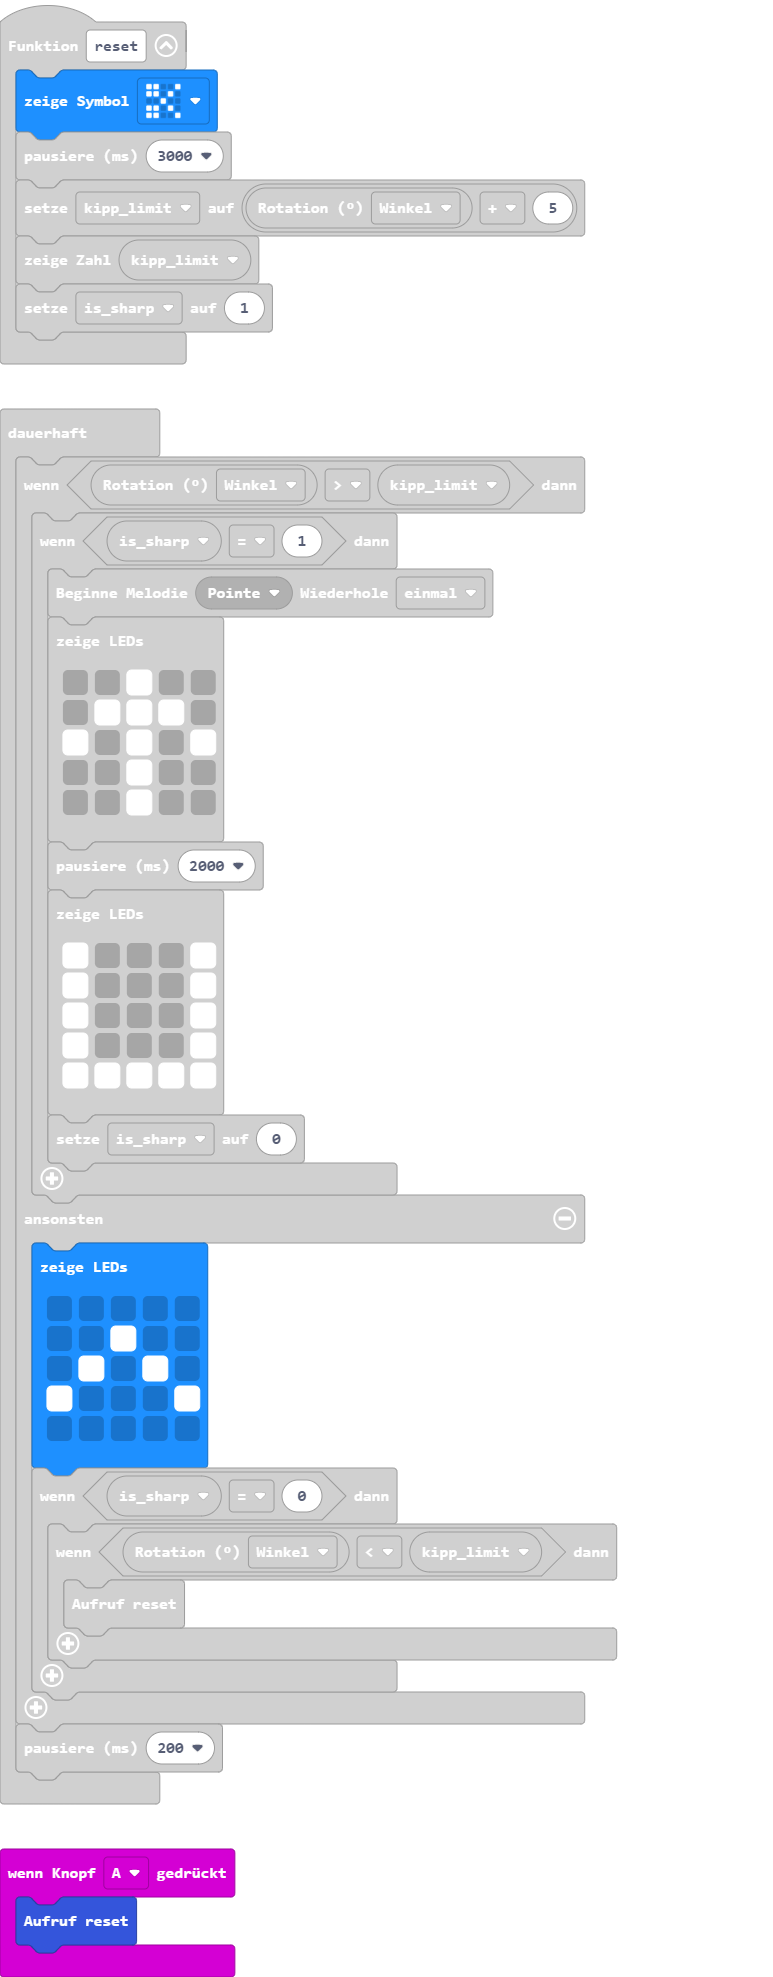
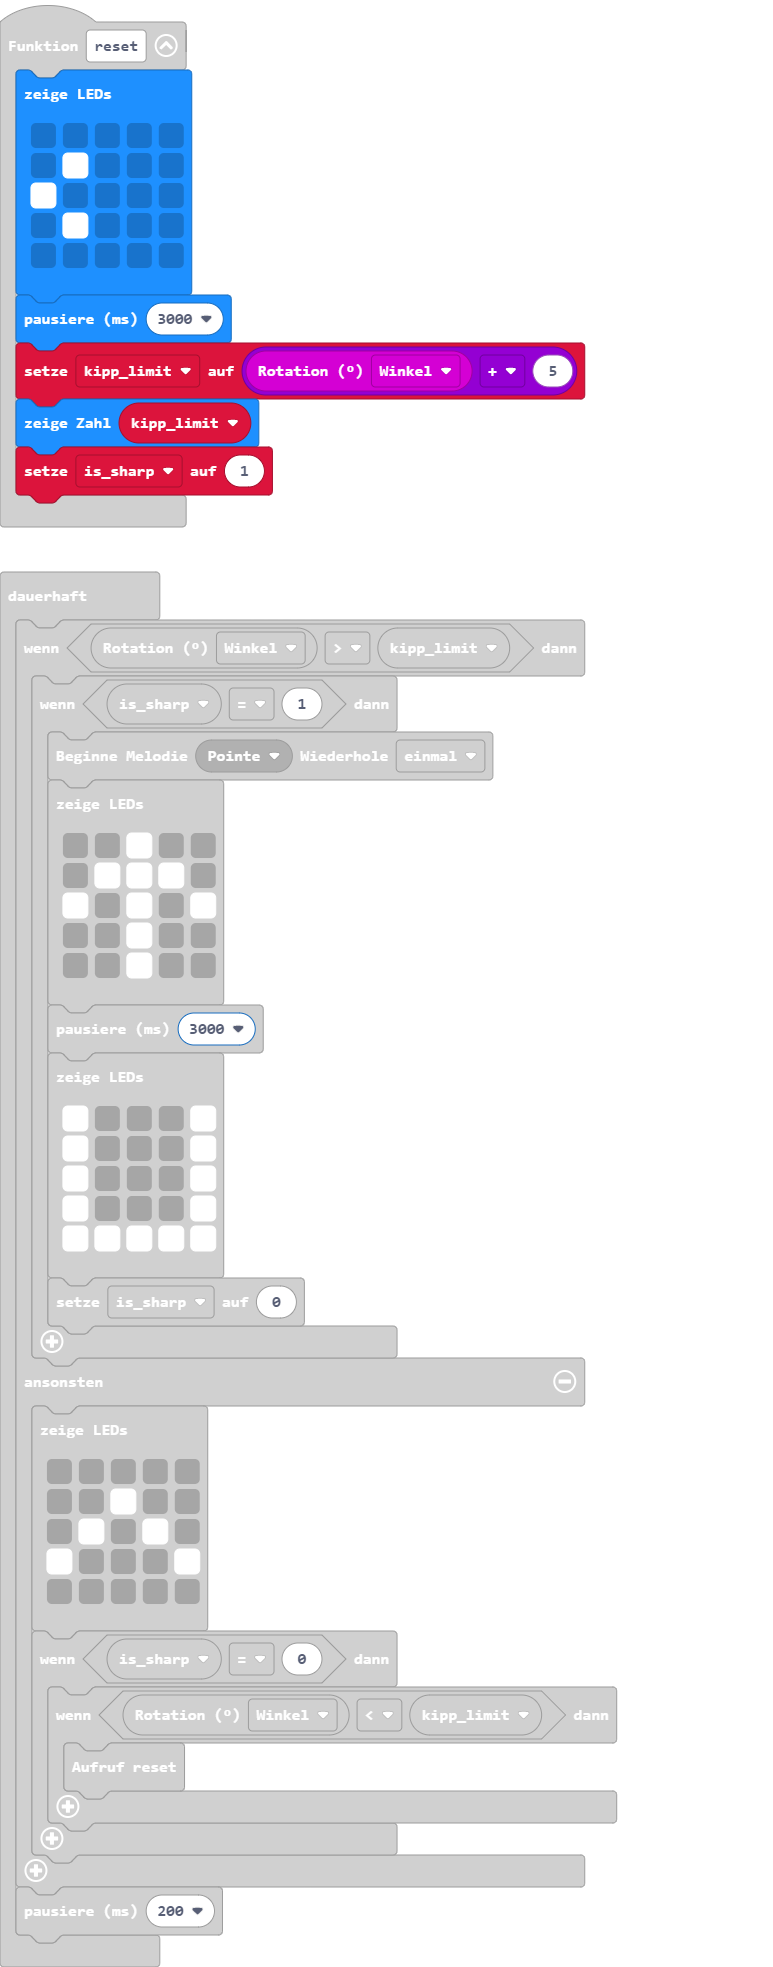
Aktualisiere main.blocks, main.ts

diff --git a/main.ts b/main.ts
@@ -2,7 +2,13 @@ input.onButtonPressed(Button.A, function () {
     reset()
 })
 function reset () {
-    basic.showIcon(IconNames.Scissors)
+    basic.showLeds(`
+        . . . . .
+        . # . . .
+        # . . . .
+        . # . . .
+        . . . . .
+        `)
     basic.pause(3000)
     kipp_limit = input.rotation(Rotation.Pitch) + 5
     basic.showNumber(kipp_limit)
@@ -22,7 +28,7 @@ basic.forever(function () {
                 . . # . .
                 . . # . .
                 `)
-            basic.pause(2000)
+            basic.pause(3000)
             basic.showLeds(`
                 # . . . #
                 # . . . #
